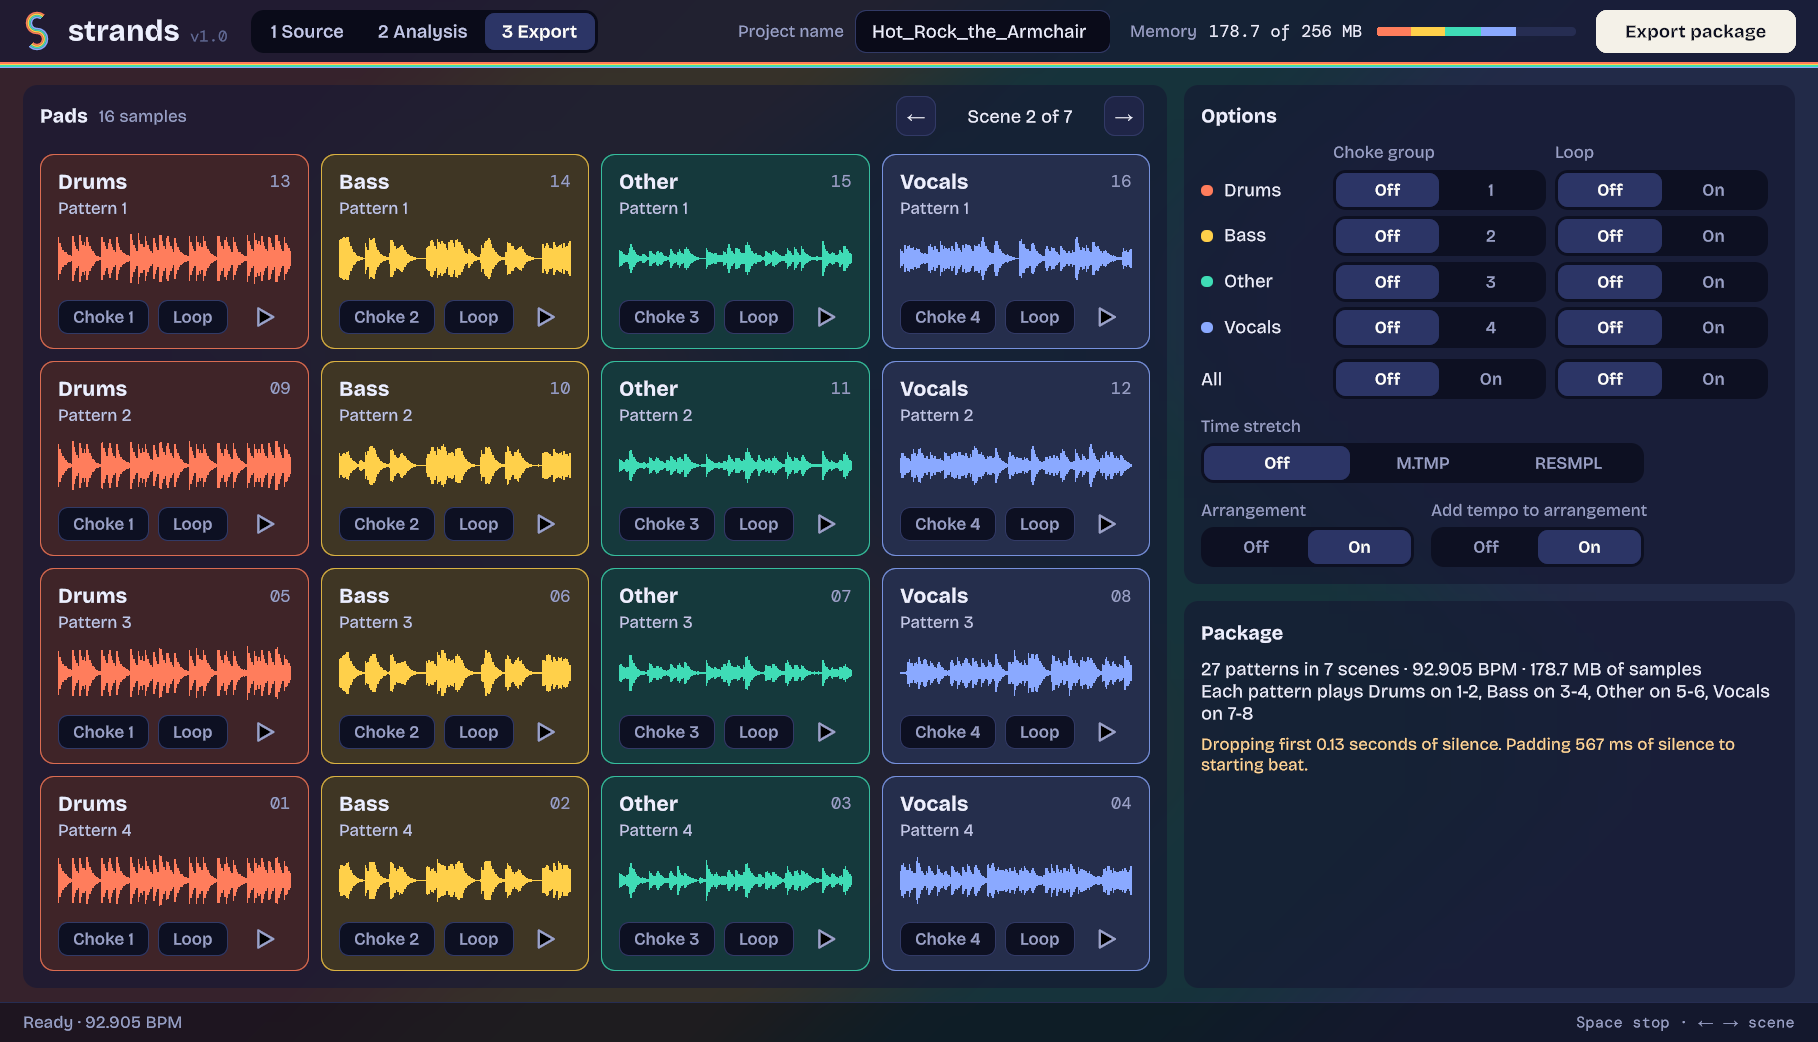
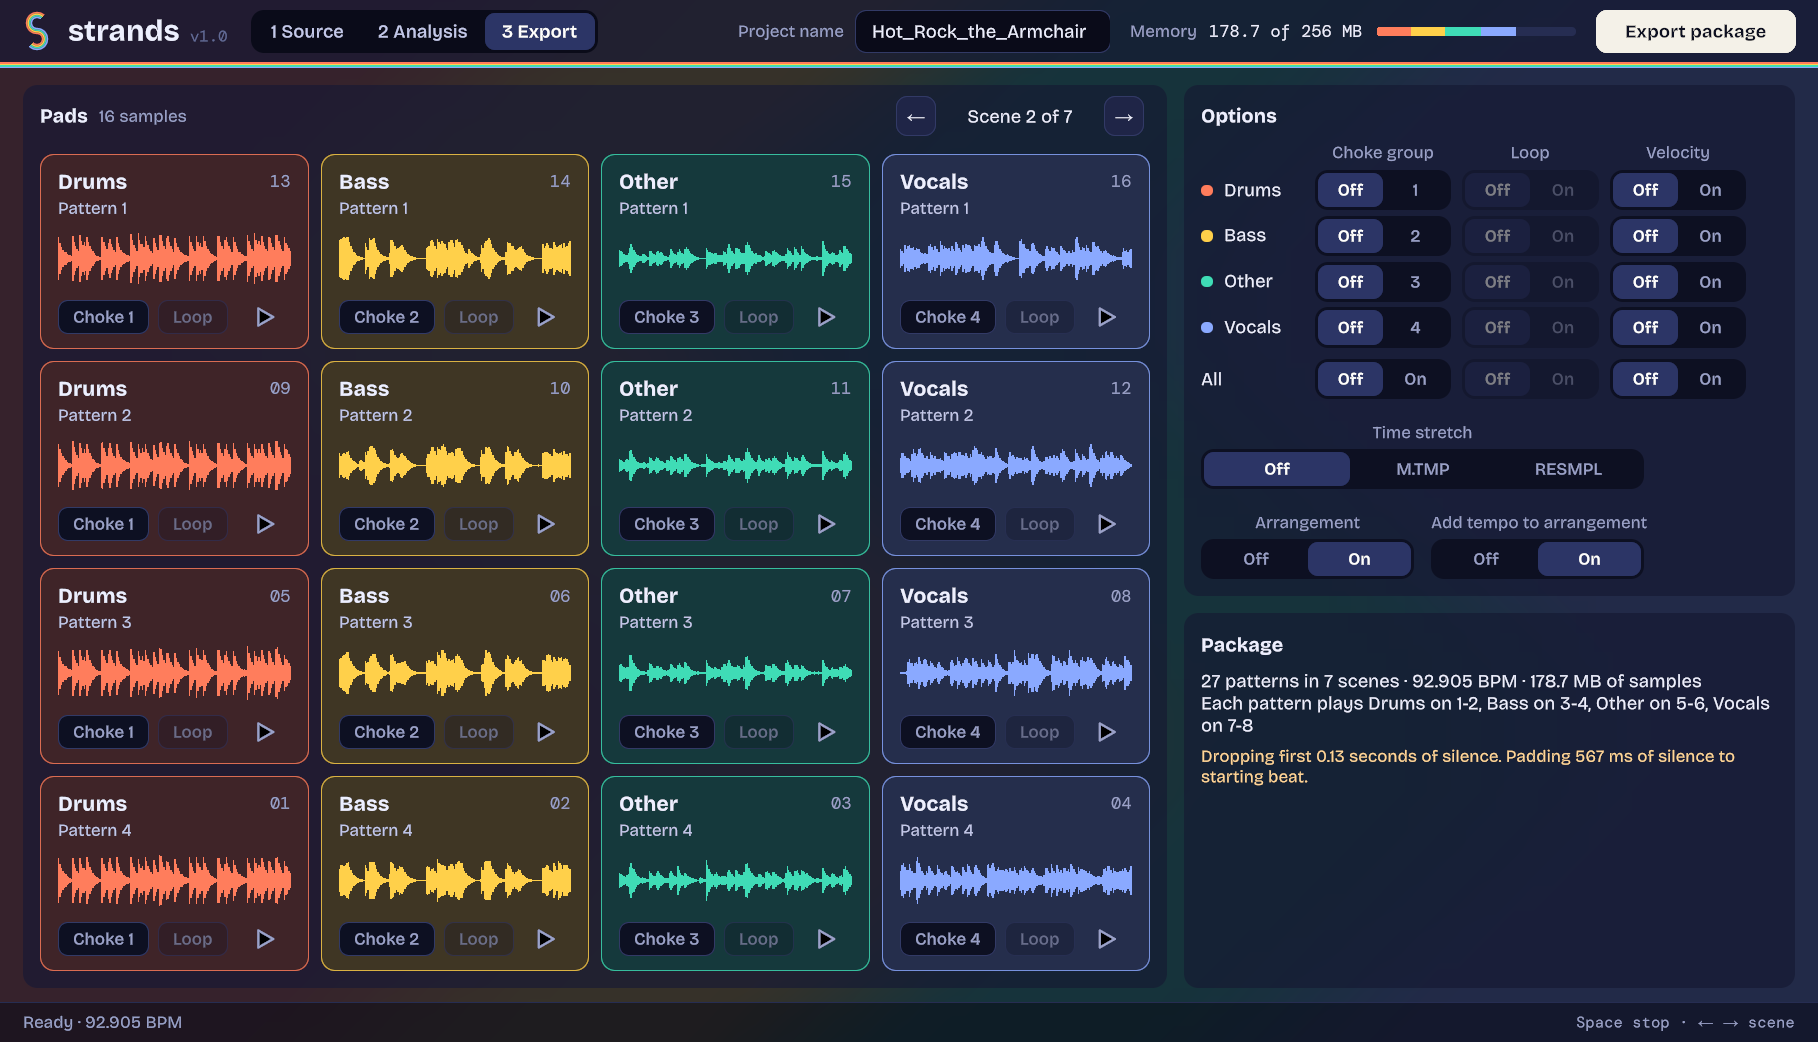
Update - user guide, README and screenshots for velocity, loops and remembered settings
The Export screenshot shows the Velocity column and centred headings, and the guide's pins on it are moved to match. The Source screenshot is retaken; the Analysis screen has not changed.

diff --git a/docs/guide/Strands_User_Guide.html b/docs/guide/Strands_User_Guide.html
@@ -927,12 +927,12 @@
     <a class="pin" href="#e1" style="--x: 28; --y: 145">1</a>
     <a class="pin" href="#e2" style="--x: 40; --y: 316">2</a>
     <a class="pin" href="#e3" style="--x: 862; --y: 116">3</a>
-    <a class="pin" href="#e4" style="--x: 1300; --y: 236">4</a>
-    <a class="pin" href="#e5" style="--x: 1300; --y: 378">5</a>
-    <a class="pin" href="#e6" style="--x: 1670; --y: 462">6</a>
-    <a class="pin" href="#e7" style="--x: 1308; --y: 586">7</a>
-    <a class="pin" href="#e8" style="--x: 1538; --y: 586">8</a>
-    <a class="pin" href="#e9" style="--x: 1332; --y: 632">9</a>
+    <a class="pin" href="#e4" style="--x: 1770; --y: 236">4</a>
+    <a class="pin" href="#e5" style="--x: 1770; --y: 378">5</a>
+    <a class="pin" href="#e6" style="--x: 1670; --y: 468">6</a>
+    <a class="pin" href="#e7" style="--x: 1308; --y: 598">7</a>
+    <a class="pin" href="#e8" style="--x: 1538; --y: 598">8</a>
+    <a class="pin" href="#e9" style="--x: 1332; --y: 645">9</a>
     <a class="pin" href="#e10" style="--x: 1695; --y: -4">10</a>
   </div>
   <figcaption>The Export screen, showing scene 2 of 7.</figcaption>
@@ -957,7 +957,7 @@
   <li><strong>Click a pad</strong> to play its sample from the start. Click it again to restart it. You can play several at once.</li>
   <li>To stop a pad, click its <strong>■</strong> sign, or hold <kbd>Shift</kbd> and click anywhere on the pad. <span class="ui">Stop</span>, at the top of the pads, or <kbd>Space</kbd>, stops them all.</li>
   <li>A playing pad has a pale edge and a line moving across its waveform.</li>
-  <li>Pads play as they will on the unit: looped pads go round, and choked pads cut each other off. They play at the song's own tempo; time stretch isn't heard here.</li>
+  <li>Pads play as they will on the unit: looped pads go round (with the arrangement off), and choked pads cut each other off. They play at the song's own tempo; time stretch isn't heard here.</li>
   <li>A pad that reads <em>Empty</em> has nothing on it. Strands leaves out samples that are silent, or as good as silent, such as the vocal stem during an instrumental part. They'd only take up memory.</li>
 </ul>
 
@@ -1056,7 +1056,7 @@
 <p>The foot of the Source screen says why in red. Either there are more than 16 tracks, or the last analysis found the project needs more memory or more patterns than the unit has. Set a strip to <span class="ui">Sum tracks</span> or to mono, or remove some files, and <span class="ui">Analyse</span> comes back on. The beat grid is kept, so it goes straight to the Analysis screen.</p>
 
 <h4>The notes under the waveform are red</h4>
-<p>The song can't be exported as it is, and the note says why: usually it's too long, or uses too much memory. See <a href="#limits">Memory and length</a>.</p>
+<p>The song can't be exported as it is, and the note says why: usually a change of tempo has made it too large to fit, in memory or in patterns. See <a href="#limits">Memory and length</a>.</p>
 
 <h4>A file won't load</h4>
 <p>Strands can't read copy-protected files, such as some music bought from streaming services. Stem files whose stems are in Apple Lossless can only be read on a Mac. Any other file that won't load may be damaged; try opening it in another app.</p>

diff --git a/README.md b/README.md
@@ -15,7 +15,7 @@ Strands is a macOS and Windows application, with an untested Linux build, that t
 - **Audition** — play the song with a click on the beat, loop a pattern, and switch stems on and off
 - **Outputs** — four output strips for outputs 1-2, 3-4, 5-6 and 7-8, a single output as mono, or everything on master
 - **Pads** — see each scene's sixteen pads as the unit lays them out, play them, and set choke groups and loops per stem or per pad, and velocity per stem
-- **Unit settings** — time stretch (Off, M.TMP, RESMPL), arranger on or off, and whether the arrangement carries the song's tempo
+- **Unit settings** — time stretch (Off, M.TMP, RESMPL), arranger on or off, and whether the arrangement carries the song's tempo, remembered from one song to the next
 - **Memory aware** — shows how much of the unit's 256 MB of sample memory the package will use, and leaves out samples that are silent
 
 ## Screenshots
